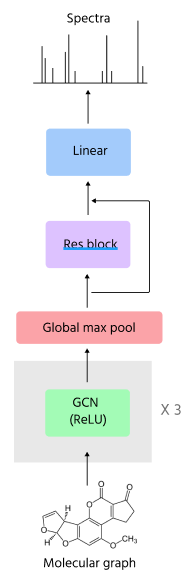
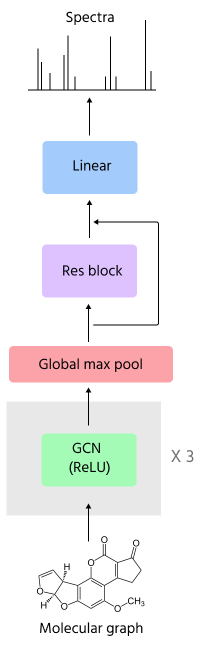
final post molecular ml

diff --git a/content/blog/molecular-ml.md b/content/blog/molecular-ml.md
@@ -74,21 +74,23 @@ As mentioned above, the whole point of this exercise was to get a sense of the f
 
 First up we’ll try to use molecular  fingerprints. Particularly, we’ll use the flavor everyone likes: the extended connectivity fingerprint (ECFP) which encodes the identity and connectivity pattern of each atom using [the Morgan algorithm](https://pubs.acs.org/doi/abs/10.1021/c160017a018). ECFPs are pretty effective across the board and they capture local and distant connectivity patterns in an iterative fashion. For a super friendly introduction, check out [this page](https://depth-first.com/articles/2019/01/11/extended-connectivity-fingerprints/). We’ll use a 1024 bit fingerprint, meaning a 1024 vector of zeros and ones for the molecular representation. We’ll then feed this into a simple, deep multi-layer perceptron (MLP). These days, it seems that MLPs are synonymous with MLPs with residual connections, so each layer of the MLP will actually be a residual block. I used SiLUs for the activating function, which gave a slightly better performance than ReLUs but not by much. The architecture is super straightforward:
 
-![](/img/molecular_ml/mlp_model.png)
+![](/img/molecular_ml/mlp_model.png#center)
 *Molecular fingerprint-based MLP architecture*
 
 ### GCN
 
 Then, I tried a graph convolutional neural network using the awesome [torch_geometric](https://pytorch-geometric.readthedocs.io/en/latest/) package. Graph convnets (GCNs), or more generally message passing networks, come in many many many flavors now and I was quite overwhelmed by the number of choices:
 
-![](/img/molecular_ml/torch_geom_nn.png)
+![](/img/molecular_ml/torch_geom_nn.png#center)
 *This is just like a third of the convolution layers available...also there's a similar list for pooling*
 
 I decided to take the vanilla GCNs -- the real OGs. In any case, all of these modules basically take graphs as inputs, which means a list of edges and a set of features for each node and each edge. What features do we include for nodes and edges? Here, things start to get a lot less standardized than in the fingerprint world and you really have to get the know-how directly from the practitioners. After scrolling through kaggle notebooks and the [deepchem](https://deepchem.io/) source, I settled on using a set of properties that were easily extracted from each atom and bond using RDKit and put them as node and edge features respectively. Deciding how many atom properties and how to encode them into node features was probably the thing that required the most trial and error and made a huge impact on performance. I first started with a few basic properties and performance was pretty low, but then added quite a bit more and it started to get a bit better. What was interesting is that how I encoded the atom properties mattered a lot as well. For example, encoding the valence and number of hydrogens in a one-hot fashion (like the deepchem folks) instead of directly as numbers really helped.
 
 What was the final architecture here? It basically consisted of a sequence of GCN layers and then a global max pooling at the end (I also tried sum and mean as well as more fancy methods like jumping knowledge but they gave similar results). The pooled features are then appended to the graph-level covariates (ion type and fragmentation level) and are then fed to a linear layer with residual connections and then a layer on top to convert to spectra feature space. 
 
-![](/img/molecular_ml/gcp_model.png)
+<img src="/img/molecular_ml/gcn_model.png" style="display:block; margin-left: auto; margin-right: auto;">
+
+![]()
 *Graph convolution architecture*
 
 ### EGNN
@@ -97,14 +99,16 @@ Let’s get a bit more fancy and use an E(3) equivariant graph neural network (E
 
 The GNPS data doesn’t actually have 3D positions computed for each molecule, so I used the very simple MMFF forecefield in RDKIT to compute them from scratch. As with the GCNs, we also add a max global pooling operation and a residual linear head to include the ion type and fragmentation level covariates to then output a spectra.
 
-![](/img/molecular_ml/egnn_model.png)
-*Eqivariante graph neural network (EGNN) architecture*
+<img src="/img/molecular_ml/egnn_model.png" style="display:block; margin-left: auto; margin-right: auto;">
+
+![]()
+*Eqivariant graph neural network (EGNN) architecture*
 
 ### SMILES transformer
 
 Finally, why not try the NLP route and use a string representation of molecules? The most popular is the ubiquitous SMILES, the very same format that the molecules in our dataset are in. SMILES are encoded using a similar algorithm to the ECFP fingerprints, but instead of saving the connectivity as bits, it has a language of its own. To go full NLP, we’ll be actually finetuning a masked language model that has been already trained on a medium size corpus of molecular SMILES. Specifically, we’ll be using the [ChemBERTa](https://github.com/seyonechithrananda/bert-loves-chemistry) model trained on the ZINC database. Getting the model to spit out vectors from SMILES is pretty easy since it uses the Huggingface API. Initially, I don’t know why I tried to code up a model that held the whole ChemBERTa model with frozen parameters as the initial layer and a simple head on top. This of course consumed most of my GPU memory and was super unwieldy to train. I guess I thought I could get fancy by unfreezing some layers but it never worked out. In the end, I stuck with just vectorizing the SMILES first using the pretrained ChemBERTa and then just training an MLP identical to the fingerprint one using those representations.
 
-![](/img/molecular_ml/bert_model.png)
+![](/img/molecular_ml/bert_model.png#center)
 *ChemBERTa-based MLP architecture*
 
 ### Loss, training, and evaluation
@@ -112,8 +116,8 @@ Finally, why not try the NLP route and use a string representation of molecules?
 The loss function here is pretty straightforward. Nothing more than the mean squared error. I tried mean absolute error as well but in general it gave weirder looking spectra. For the optimizer, I used Adam with the magic learning rate 3e-4. I half-heartedly tried using some learning rate schedulers and AdamW but they actually performed worse, likely because they need to be optimized further and I just was running out of motivation at that point. For hyperparameter scans, these are the values that I scanned per model (the ranges were short enough that I just scanned them all):
 
 
-| Model | Hidden units | Layers | Batch size   |
-|-------|--------------|--------|--------------|
+| Model  | Hidden units   | Layers   | Batch size   |
+|:-------|:--------------:|:--------:|:--------------:|
 | mlp   |512,1024,2048 | 1-7    | 16,32,...,256|
 | gcn   |512,1024,2048 | 1-4    | 16,32,...,128|
 | egnn  |512,1024,2048 | 1-4    | 16,32,...,128|
@@ -130,11 +134,11 @@ For evaluation, other than test loss, I assessed the intensity and the M/Z decim
 So how did it turn out? Let’s take a look at the test/validation loss as well as average cosine similarity and ppm in the validation set:
 
 | Model        | Test error |  Validation M/Z percent error |  Validation cosine similarity |
-|:-------------|------------|-------------------------------|-------------------------------|
-| mlp          |   1.87e-4  |                     0.0529508 |                      0.39767  |
-| bert         |   1.79e-4  |                     0.0541171 |                      0.351409 |
-| egnn         |   1.87e-4  |                     0.0576607 |                      0.309233 |
-| gcn          |   1.88e-4  |                     0.0574044 |                      0.285176 |
+|:-------------|:------------:|:-------------------------------:|:-------------------------------:|
+| mlp          |   1.87e-4  |                     0.052 |                      0.39  |
+| bert         |   1.79e-4  |                     0.054 |                      0.35 |
+| egnn         |   1.87e-4  |                     0.057 |                      0.30 |
+| gcn          |   1.88e-4  |                     0.057 |                      0.28 |
 
 Interestingly, the deeper MLPs based on fingerprints and SMILES do the best. Interestingly, the EGNN comes on top on test loss, but the MLPs win on cosine similarity by some margin. As you can see, the EGNN does add something useful compared to the vanilla GCN, which is pretty cool. I looked at the top/bottom 10 best/worst predictions for each model. All of them nailed simple molecules that are super common, like nucleotides (I wonder if that’s a training set contamination) with decent fragmentation levels. Interestingly, the ones where all models did worse was overpredicting spectral fragment peaks for molecules that had low fragmentation level and thus did not have complex spectra. I think this highlights why learning spectra from molecules is a difficult problem: sometimes a molecule fragments and sometimes it doesn’t even in the same-ish conditions, the spectra can and does change with all these variables.
 
@@ -146,18 +150,23 @@ I wanted to compare head to head to other methods but 4k molecules would take a 
 ## Closing thoughts in the form of questions
 
 **Are the models available for use?**
+
 Yes! I made [a package](https://github.com/dimenwarper/molxspec) that you can install locally and run, hopefully easily (you do have to install `torch_geometric` first though, which depends on your pytorch and gpu configuration).. The goal was to have a runnable program that could get to MS2 spectra from just SMILES. I’ve also made a [simple colab](https://colab.research.google.com/drive/1YvQj-BDRKyk3UqbMvaqTu3pdq99kOx45#scrollTo=swt35Xx-ddyR) that’s easy to run.
 
 **Do you have the processed data somewhere?**
+
 Yeah, I made a [zenodo entry](https://zenodo.org/record/5717415#.YaRZ0tBKi3A) with the processed GNPS data as well as the 3D geometries in SDF,. though in hindsight this might not have been a good use of zenodo….
 
 **Is this the best you can do?**
+
 Hopefully I gave the impression that I cut some corners to get to the end, which means that there’s likely a lot more that you can do with the data. For starters, I don’t think I’m even close to the “state-of-the-art” of even this dataset. For example, it turns out that the EGNN was generally harder to train, and I had to tweak the learning rate a bit (to 1e-4 in the end). However, I don’t think I saturated its learning capacity (as opposed to the fingerprint MLP, which really hit a plateau) and I can easily see how its performance could be made better by just training for longer. For the ChemBERTa SMILES MLP, I only used the most basic ZINC trained model -- their pubmed model should have learned better representations. There are also still a lot of tried-and-true things you can do to squeeze more performance, like stochastic weight averaging and actually scanning learning rates and learning schedules properly.
 
 **What’s the best way to improve performance?**
+
 By far the best way to improve would be to convince mass spec folks to deposit MOAR DATA to GNPS. I cannot stress enough how important open databases are, especially in fields like mass spectrometry where they have historically been closed and behind proprietary software. Hopefully this adds to the evidence of how powerful being aggressively open is. On that note, my hypothesis is that enough MSn (n>=2) spectral data (e.g. millions of spectra) would get a transformatively accurate compound identification model. Just imagine all the chemical diversity out there hidden right under our noses.
 
 **Did you learn anything on the machine learning side?**
+
 I think so! Aside from technical stuff, I think we really should have self-supervised, pre-trained models like ChemBERTa but for all modalities, including 3D equivariant ones. Training these things from scratch is a bit onerous and is limited by the practitioner’s GPU setup. There’s already work on pretraining [graph neural nets](https://arxiv.org/abs/1905.12265) that goes back to 2019, we just need to make pretrained models more popular and adapt them to the equivariant setting.
 
 

diff --git a/content/blog/when-not-to-deep-learn.md b/content/blog/when-not-to-deep-learn.md
@@ -4,7 +4,8 @@ draft = false
 title = "When not to use deep learning"
 
 +++
-<a href="http://www.kdnuggets.com/2017/07/top-news-week-0724-0730.html"><img src="http://www.kdnuggets.com/images/top-kdnuggets-blog-2017-jul-gold.png" width=95 alt="Gold Blog, July 2017" align="left"></a> I know it's a weird way to start a blog with a negative, but there was a wave of discussion in the last few days that I think serves as a good hook for some topics on which I've been thinking recently. It all started with a [post in the Simply Stats blog](https://simplystatistics.org/2017/05/31/deeplearning-vs-leekasso/) by Jeff Leek on the caveats of using deep learning in the small sample size regime. In sum, he argues that when the sample size is small (which happens a lot in the bio domain), linear models with few parameters perform better than deep nets even with a modicum of layers and hidden units. He goes on to show that a very simple linear predictor, with top ten most informative features, performs better than a simple deep net when trying to classify zeros and ones in the MNIST dataset using only 80 or so samples. This prompted Andrew beam to write a [rebuttal](http://beamandrew.github.io/deeplearning/2017/06/04/deep_learning_works.html) in which a properly trained deep net was able to beat the simple linear model, even with very few training samples. This back-and-forth comes at a time where more and more researchers in biomedical informatics are adopting deep learning for various problems. Is the hype real or are linear models really all we need? The answer, as alwyas, is that it depends. In this post, I want to visit use cases in machine learning where using deep learning does not really make sense as well as tackle preconceptions that I think prevent deep learning to be used effectively, especially for newcomers. 
+
+I know it's a weird way to start a blog with a negative, but there was a wave of discussion in the last few days that I think serves as a good hook for some topics on which I've been thinking recently. It all started with a [post in the Simply Stats blog](https://simplystatistics.org/2017/05/31/deeplearning-vs-leekasso/) by Jeff Leek on the caveats of using deep learning in the small sample size regime. In sum, he argues that when the sample size is small (which happens a lot in the bio domain), linear models with few parameters perform better than deep nets even with a modicum of layers and hidden units. He goes on to show that a very simple linear predictor, with top ten most informative features, performs better than a simple deep net when trying to classify zeros and ones in the MNIST dataset using only 80 or so samples. This prompted Andrew beam to write a [rebuttal](http://beamandrew.github.io/deeplearning/2017/06/04/deep_learning_works.html) in which a properly trained deep net was able to beat the simple linear model, even with very few training samples. This back-and-forth comes at a time where more and more researchers in biomedical informatics are adopting deep learning for various problems. Is the hype real or are linear models really all we need? The answer, as alwyas, is that it depends. In this post, I want to visit use cases in machine learning where using deep learning does not really make sense as well as tackle preconceptions that I think prevent deep learning to be used effectively, especially for newcomers. 
 
 # Breaking deep learning preconceptions
 
